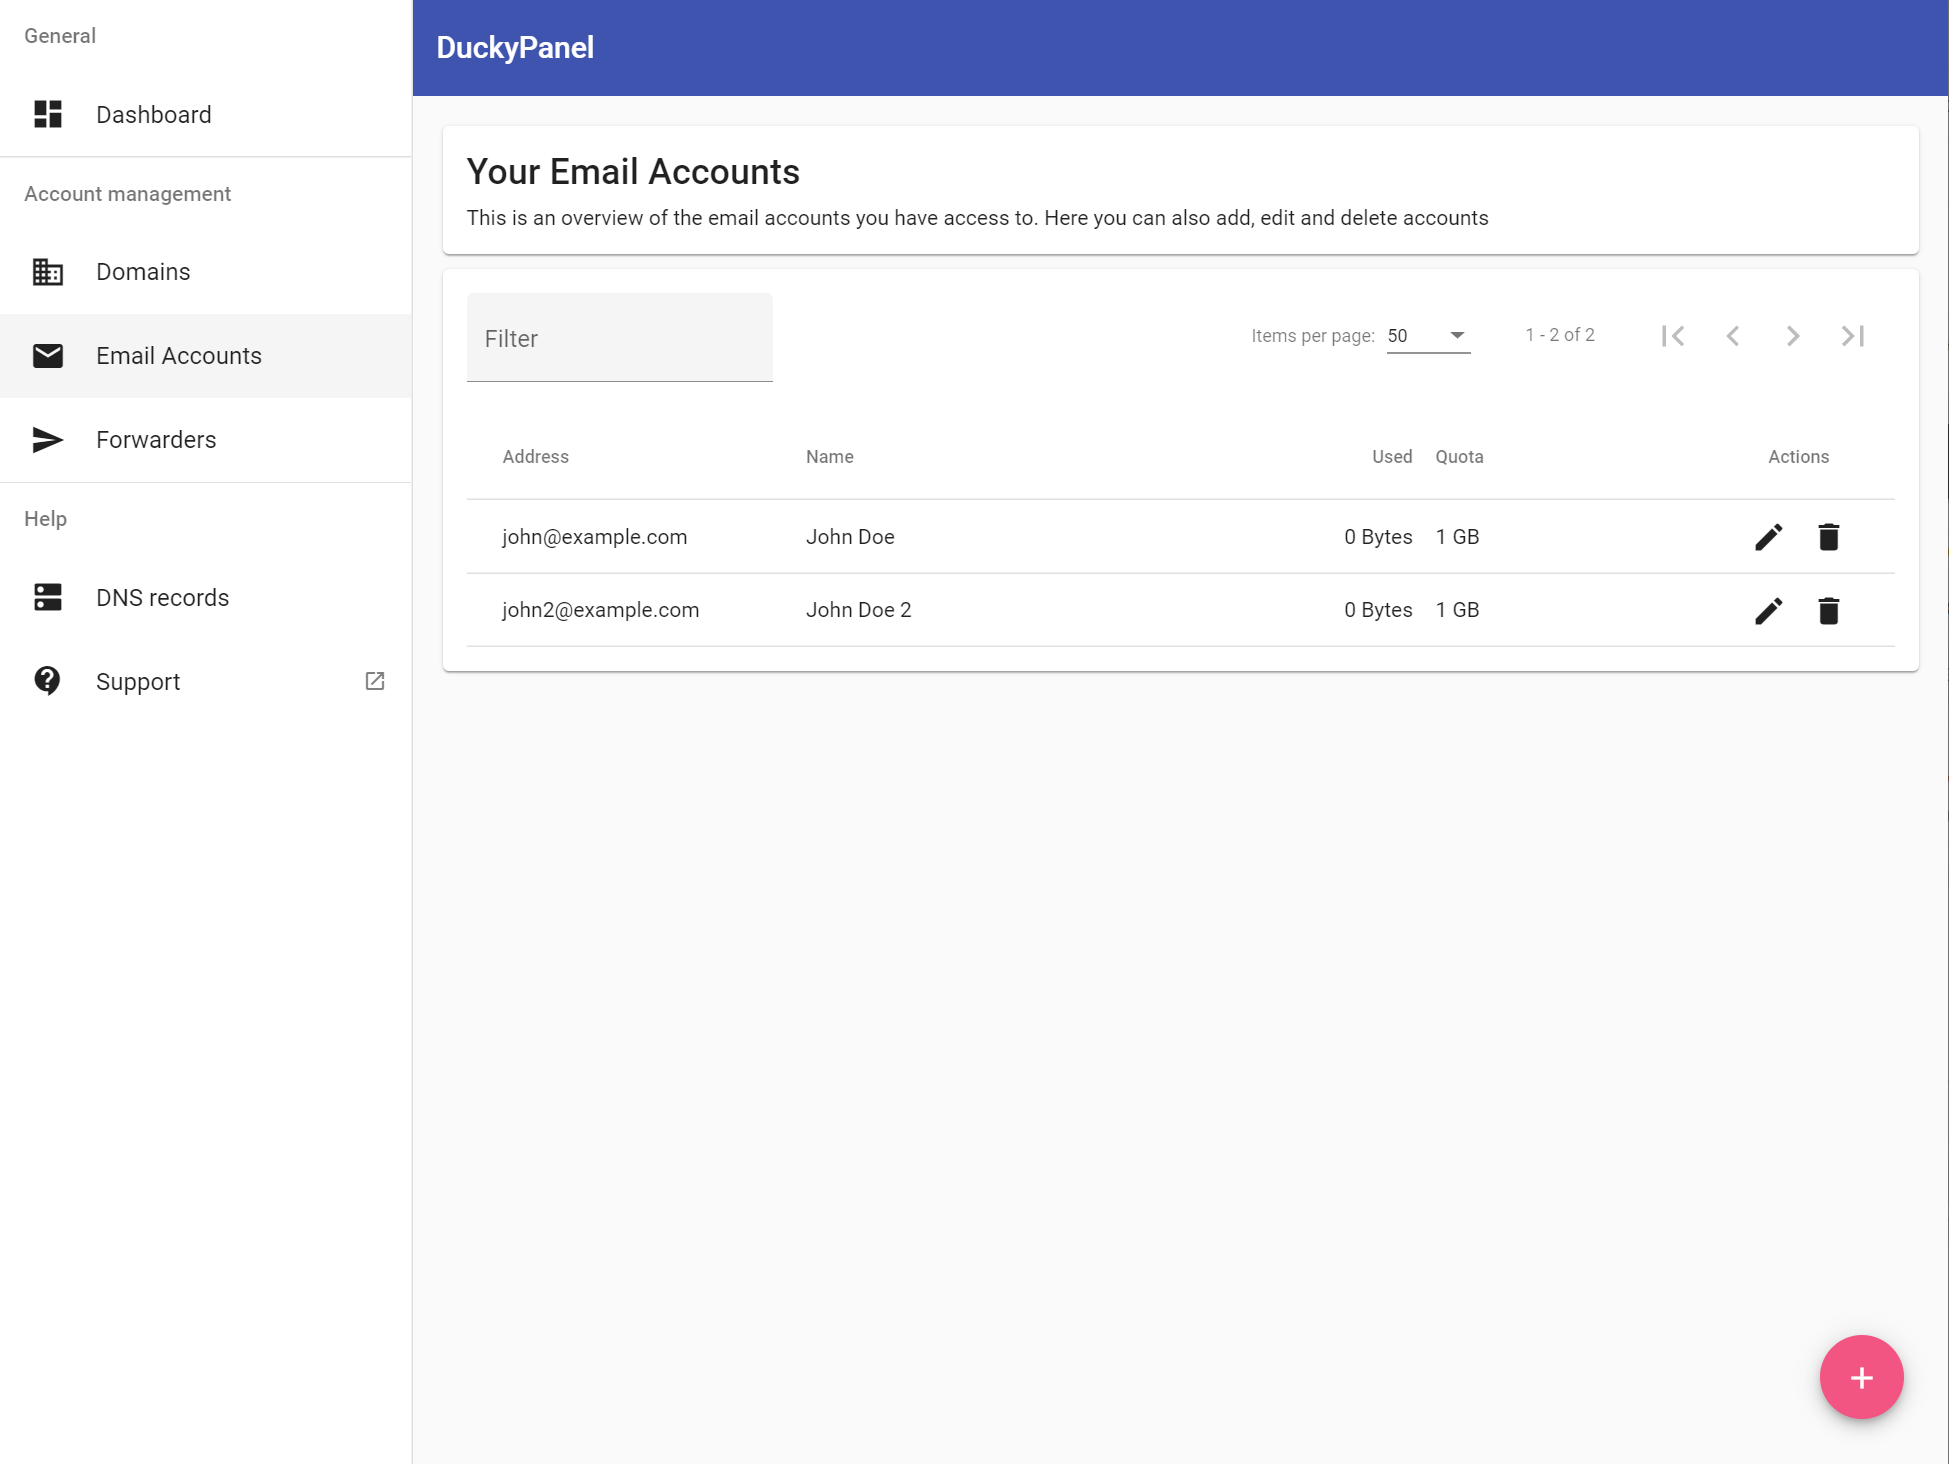
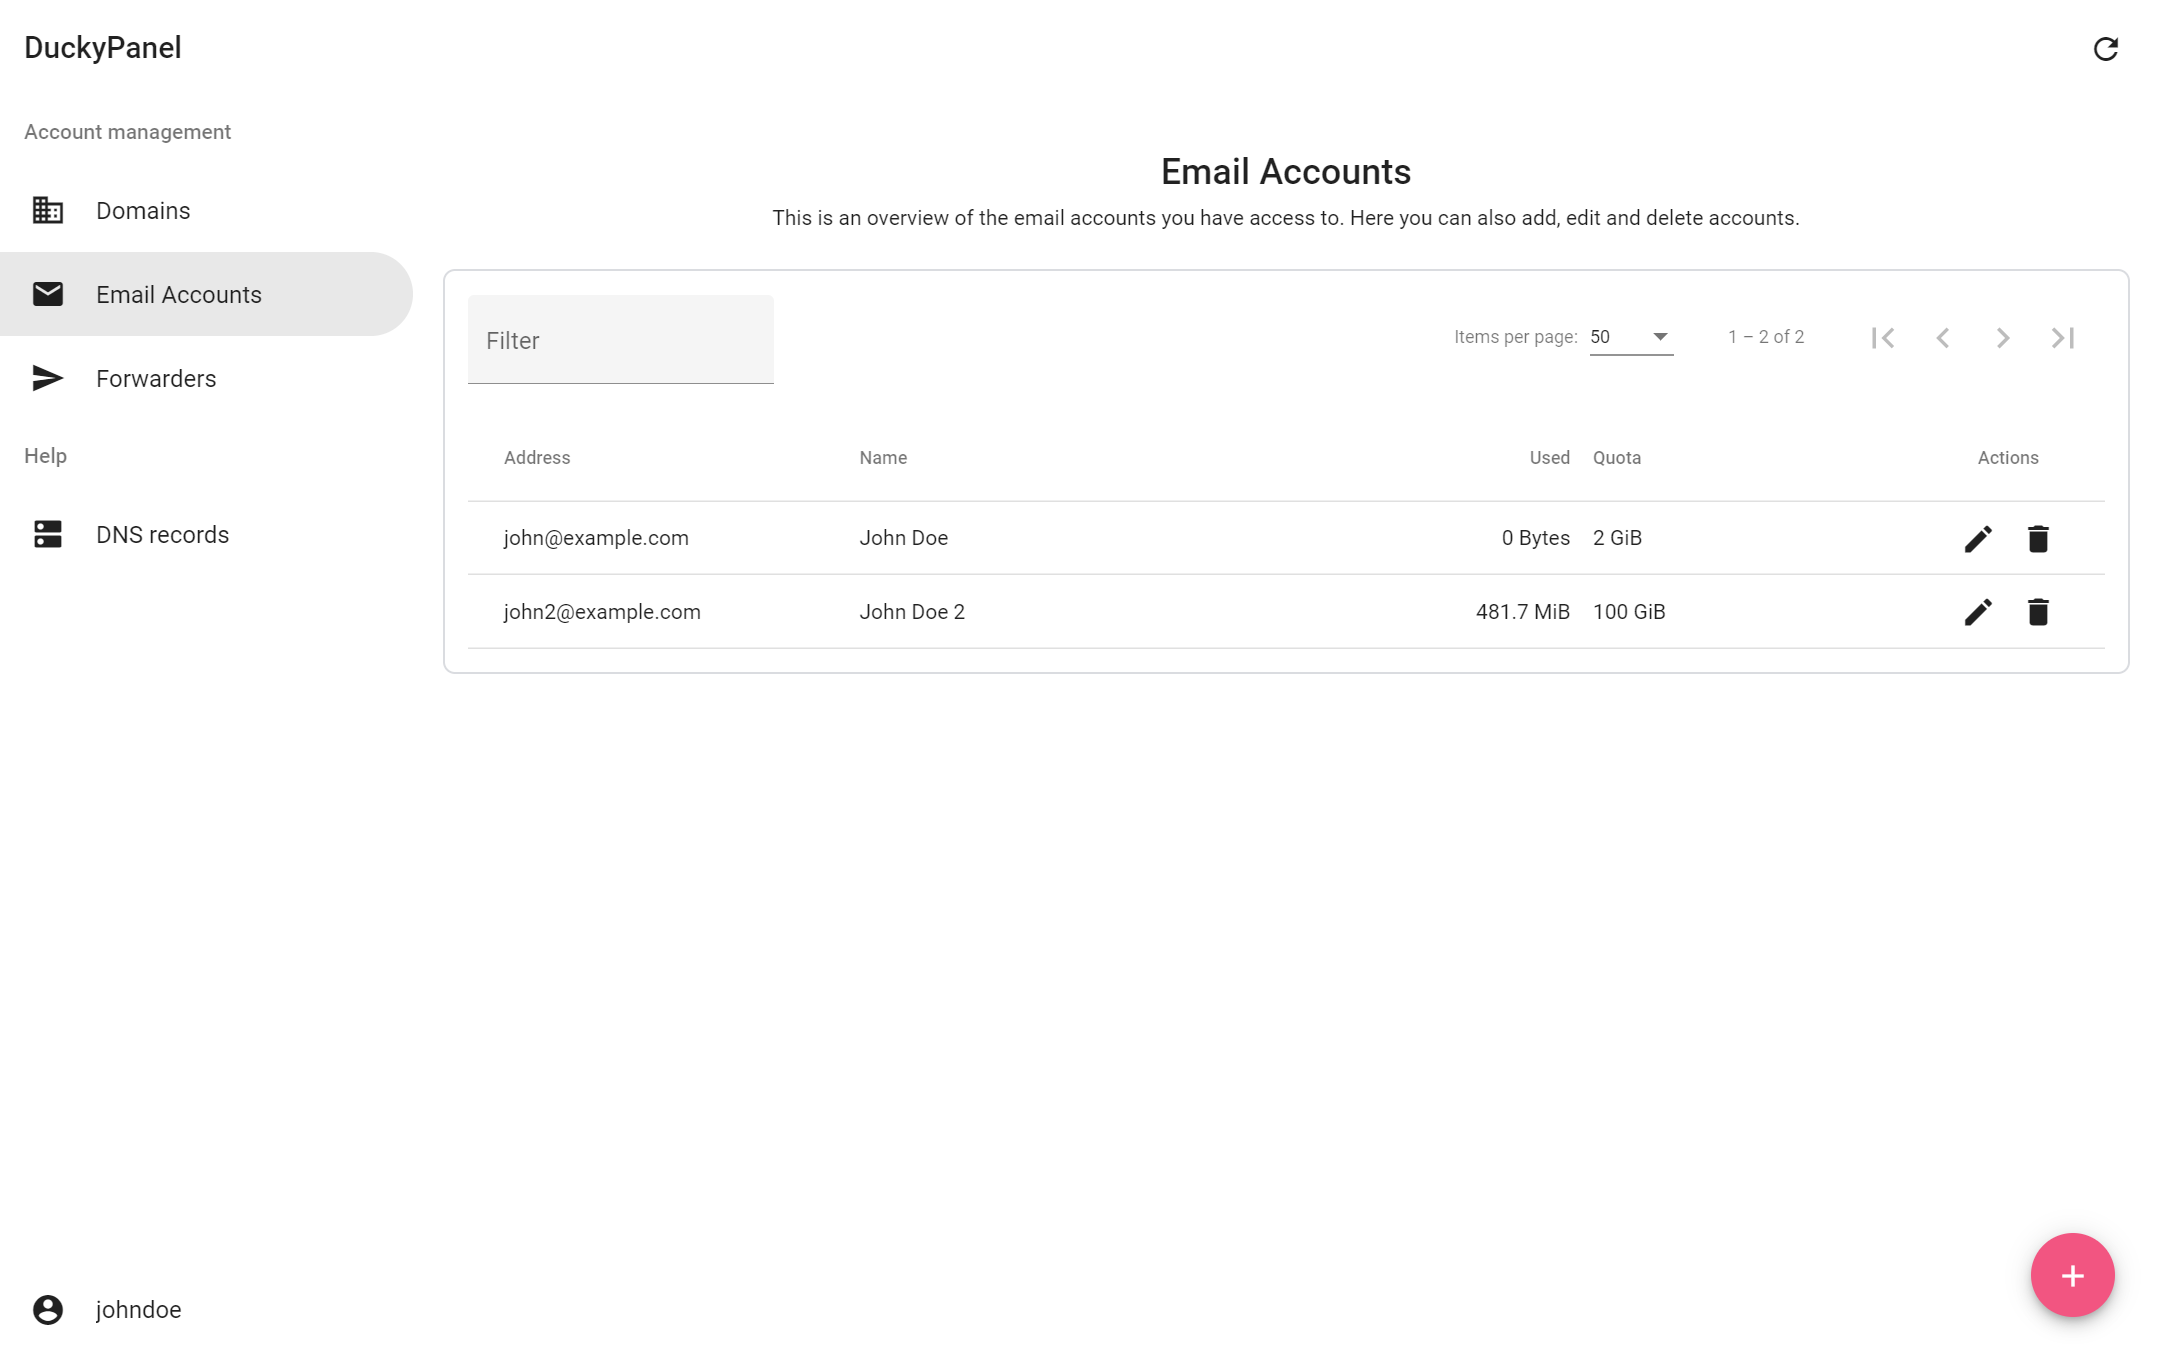
Clean restyle

diff --git a/src/app/app.component.html b/src/app/app.component.html
@@ -1,8 +1,37 @@
-<mat-sidenav-container class="sidenav-container">
+<mat-toolbar
+  [class.mat-elevation-z4]="
+    (elevateToolbar && (isHandset$ | async) && !drawer.opened) || (elevateToolbar && !(isHandset$ | async))
+  "
+  *ngIf="isFullscreen === false"
+  fxLayout="row"
+  fxLayoutAlign="space-between center"
+>
+  <button
+    type="button"
+    aria-label="Toggle sidenav"
+    mat-icon-button
+    (click)="drawer.toggle()"
+    *ngIf="isHandset$ | async"
+  >
+    <mat-icon aria-label="Side nav toggle icon">menu</mat-icon>
+  </button>
+  <span>DuckyPanel</span>
+  <button
+    *ngIf="showRefreshButton"
+    (click)="refreshCurrentView()"
+    matTooltip="Refresh"
+    matTooltipPosition="below"
+    matTooltipShowDelay="500"
+    mat-icon-button
+  >
+    <mat-icon>refresh</mat-icon>
+  </button>
+</mat-toolbar>
+<mat-sidenav-container>
   <mat-sidenav
     #drawer
-    class="sidenav"
     fixedInViewport
+    [fixedTopGap]="(isHandset$ | async) ? 56 : 64"
     [attr.role]="(isHandset$ | async) ? 'dialog' : 'navigation'"
     [mode]="(isHandset$ | async) ? 'over' : 'side'"
     [opened]="(isHandset$ | async) === false && isFullscreen === false"
@@ -10,9 +39,7 @@
     <!-- Create all navigation items -->
     <mat-nav-list>
       <div class="nav-top-part">
-        <ng-container *ngFor="let navCategory of navCategories; first as isFirst">
-          <!-- Only add divider if not the first category in the list -->
-          <mat-divider *ngIf="!isFirst"></mat-divider>
+        <ng-container *ngFor="let navCategory of navCategories">
           <h3 mat-subheader>{{ navCategory.title }}</h3>
 
           <ng-container *ngFor="let navItem of navCategory.items">
@@ -21,6 +48,7 @@
               *ngIf="navItem.routerLink; else href"
               (click)="closeDrawerConditional()"
               [routerLink]="navItem.routerLink"
+              routerLinkActive="active-list-item"
             >
               <mat-icon mat-list-icon>{{ navItem.icon }}</mat-icon>
               <h4 mat-line>{{ navItem.name }}</h4>
@@ -35,7 +63,7 @@
           </ng-container>
         </ng-container>
       </div>
-      <a class="profile-link" mat-list-item (click)="closeDrawerConditional()" routerLink="/profile">
+      <a class="profile-link" mat-list-item (click)="closeDrawerConditional()" routerLink="/profile" routerLinkActive="active-list-item">
         <mat-icon mat-list-icon>account_circle</mat-icon>
         <h4 mat-line>{{ profileService.user.username }}</h4>
       </a>
@@ -43,34 +71,6 @@
   </mat-sidenav>
 
   <mat-sidenav-content>
-    <mat-toolbar
-      *ngIf="isFullscreen === false"
-      fxLayout="row"
-      fxLayoutAlign="space-between center"
-      color="primary"
-      [ngStyle]="{ 'z-index': 100 }"
-    >
-      <button
-        type="button"
-        aria-label="Toggle sidenav"
-        mat-icon-button
-        (click)="drawer.toggle()"
-        *ngIf="isHandset$ | async"
-      >
-        <mat-icon aria-label="Side nav toggle icon">menu</mat-icon>
-      </button>
-      <span>{{ title }}</span>
-      <button
-        *ngIf="showRefreshButton"
-        (click)="refreshCurrentView()"
-        matTooltip="Refresh"
-        matTooltipPosition="below"
-        matTooltipShowDelay="500"
-        mat-icon-button
-      >
-        <mat-icon>refresh</mat-icon>
-      </button>
-    </mat-toolbar>
     <div [class.content]="isFullscreen === false">
       <router-outlet></router-outlet>
       <!-- This is where the router will add a component based on the url -->

diff --git a/src/app/app.component.ts b/src/app/app.component.ts
@@ -1,5 +1,5 @@
 import { BreakpointObserver, Breakpoints } from '@angular/cdk/layout'
-import { Component, OnInit, ViewChild } from '@angular/core'
+import { Component, HostListener, OnInit, ViewChild } from '@angular/core'
 import { MatSidenav } from '@angular/material'
 import { ActivatedRouteSnapshot, Router, RoutesRecognized } from '@angular/router'
 import { Observable } from 'rxjs'
@@ -68,6 +68,15 @@ export class AppComponent implements OnInit {
   public isFullscreen: boolean
   public showRefreshButton = false
   public currentComponent: typeof ActivatedRouteSnapshot.prototype.component
+  public elevateToolbar = false
+  public isHandset$: Observable<boolean> = this.breakpointObserver
+    .observe(Breakpoints.Handset)
+    .pipe(map((result): boolean => result.matches))
+
+  @HostListener('window:scroll', ['$event'])
+  setToolbarElevation(): void {
+    this.elevateToolbar = window.pageYOffset !== 0
+  }
 
   public ngOnInit(): void {
     this.profileService.getUserInfo()
@@ -114,10 +123,6 @@ export class AppComponent implements OnInit {
       default:
     }
   }
-
-  public isHandset$: Observable<boolean> = this.breakpointObserver
-    .observe(Breakpoints.Handset)
-    .pipe(map((result): boolean => result.matches))
 
   public closeDrawerConditional(): void {
     this.isHandset$.subscribe((isHandset$): void => {

diff --git a/src/app/app.component.scss b/src/app/app.component.scss
@@ -1,19 +1,34 @@
-.sidenav-container {
-  height: 100%;
-}
-
-.sidenav {
+mat-sidenav {
   width: 275px;
+  border: none;
 }
 
-.sidenav .mat-toolbar {
-  background: inherit;
-}
-
-.mat-toolbar.mat-primary {
+mat-toolbar {
+  background-color: #fff;
   position: sticky;
   top: 0;
-  z-index: 1;
+  z-index: 5;
+  transition: box-shadow 0.4s;
+}
+
+.mat-drawer-container {
+  background-color: #fff;
+}
+
+.mat-list-item, :host ::ng-deep .mat-list-item .mat-list-item-ripple {
+  border-radius: 0 28px 28px 0;
+}
+
+.profile-link, :host ::ng-deep .profile-link .mat-list-item-ripple {
+  border-radius: 0 35px 0 0;
+}
+
+.active-list-item, .active-list-item:hover, .active-list-item:focus {
+  background-color: rgba(0, 0, 0, 0.089);
+}
+
+:host ::ng-deep .mat-drawer-backdrop {
+  position: fixed;
 }
 
 .content {
@@ -35,7 +50,6 @@
 
 .profile-link.mat-list-item.mat-list-item-with-avatar {
   height: 70px;
-  background-color: white;
   position: absolute;
   bottom: 0;
 }

diff --git a/src/app/pages/domains/domains.component.html b/src/app/pages/domains/domains.component.html
@@ -1,13 +1,11 @@
 <!-- Switch to row or column mode depending on mobile or not -->
-<div [fxLayout]="(isHandset$ | async) ? 'column' : 'row'" fxLayoutGap="10px">
-  <mat-card fxFlex="30%" [fxFlexAlign]="(isHandset$ | async) ? null : 'start'">
-    <mat-card-title>Your domains</mat-card-title>
+<div fxLayout="column" fxLayoutGap="10px">
+  <mat-card class="explanation" fxFlex="30%" [fxFlexAlign]="(isHandset$ | async) ? null : 'start'">
+    <mat-card-title>Domains</mat-card-title>
     <mat-card-content>
       <p>
         These are the domains you have added to your account. You have access to any accounts and forwarders associated
         to these domains. Here you can add and delete domains, and manage the DKIM keys for them as well.
-      </p>
-      <p>
         Do note that when you delete a domain, the accounts will be deleted with it.
       </p>
     </mat-card-content>

diff --git a/src/app/pages/dns/dns.component.html b/src/app/pages/dns/dns.component.html
@@ -1,9 +1,9 @@
 <!-- Switch to row or column mode depending on mobile or not -->
-<div [fxLayout]="(isHandset$ | async) ? 'column' : 'row'" fxLayoutGap="10px">
+<div fxLayout="column" fxLayoutGap="10px">
   <ng-template #loading>
     <mat-spinner diameter="50"></mat-spinner>
   </ng-template>
-  <mat-card fxFlex="30%" [fxFlexAlign]="(isHandset$ | async) ? null : 'start'">
+  <mat-card class="explanation" fxFlex="30%" [fxFlexAlign]="(isHandset$ | async) ? null : 'start'">
     <mat-card-title>DNS records check</mat-card-title>
     <mat-card-content
       >Select a domain to view the needed records for it. A check will also be performed to see if you've set the

diff --git a/src/app/pages/forwarders/forwarders.component.html b/src/app/pages/forwarders/forwarders.component.html
@@ -1,7 +1,7 @@
 <!-- Switch to row or column mode depending on mobile or not -->
-<div [fxLayout]="(isHandset$ | async) ? 'column' : 'row'" fxLayoutGap="10px">
-  <mat-card fxFlex="30%" [fxFlexAlign]="(isHandset$ | async) ? null : 'start'">
-    <mat-card-title>Your forwarders</mat-card-title>
+<div fxLayout="column" fxLayoutGap="10px">
+  <mat-card class="explanation" fxFlex="30%" [fxFlexAlign]="(isHandset$ | async) ? null : 'start'">
+    <mat-card-title>Forwarders</mat-card-title>
     <mat-card-content
       >Here you can manage your forwarders. You can forward to any email address, smtp server, or HTTP server (POST
       request).</mat-card-content

diff --git a/src/app/pages/accounts/accounts.component.html b/src/app/pages/accounts/accounts.component.html
@@ -1,8 +1,8 @@
 <div fxLayout="column" fxLayoutGap="10px">
-  <mat-card>
-    <mat-card-title>Your Email Accounts</mat-card-title>
+  <mat-card class="explanation">
+    <mat-card-title>Email Accounts</mat-card-title>
     <mat-card-content
-      >This is an overview of the email accounts you have access to. Here you can also add, edit and delete accounts
+      >This is an overview of the email accounts you have access to. Here you can also add, edit and delete accounts.
     </mat-card-content>
   </mat-card>
   <mat-card class="account-table-card">

diff --git a/src/app/pages/login/login.component.html b/src/app/pages/login/login.component.html
@@ -1,5 +1,5 @@
 <div fxLayout="row" fxLayoutAlign="center center" class="layout-center" [class.is-handset]="isHandset$ | async">
-  <mat-card [class.is-handset]="isHandset$ | async">
+  <mat-card class="mat-elevation-z4" [class.is-handset]="isHandset$ | async">
     <mat-card-title>Login</mat-card-title>
     <mat-card-content>
       <form [formGroup]="loginForm" (ngSubmit)="login()">

diff --git a/src/styles.scss b/src/styles.scss
@@ -32,3 +32,22 @@ eco-fab-speed-dial {
     }
   }
 }
+
+mat-card {
+  &.mat-card {
+    border-radius: 8px;
+
+    &:not([class*=mat-elevation-z]) {
+      border: 1px solid #dadce0;
+      box-shadow: none;
+    }
+    
+    &.explanation {
+      border: none;
+      text-align: center;
+      margin: auto;
+      max-width: 960px;
+    }
+  }
+  
+}

diff --git a/src/app/pages/dns/dns.component.scss b/src/app/pages/dns/dns.component.scss
@@ -1,5 +1,7 @@
 .domain-field {
-  width: 100%;
+  margin: auto;
+  display: block;
+  max-width: 250px;
 }
 
 .dns-card-title {

diff --git a/README.md b/README.md
@@ -7,14 +7,14 @@ Duckypanel is a domain admin level control panel for the modern [WildDuck email 
 _Things currently working in DuckyPanel and DuckyAPI._
 * Authentication
 * API keys allow you to easily call DuckyAPI
-* Packages that allow you to set user quotas, currently only for show. Noting happens when going over quota.
+* Packages that allow you to set user quotas, currently only for show. Nothing happens when going over quota.
 * Domain management, including domain aliases
 * Deletes aliased domains, accounts, forwarders and DKIM when deleting a domain
 * Manage DKIM for the domains
-* Domains can not be added to multiple accounts
 * Email account management
 * Forwarder management
 * Only allows seeing/editing of accounts/forwarders on a domain if that domain is added to the account
+* Domains can not be added to multiple accounts
 * Get expected DNS records for a domain, and check the currently published records
 * Sorting and filtering
 
@@ -27,11 +27,12 @@ More to come!
 <summary>Click here for more screenshots</summary>
 
 ![Edit account screenshot](docs/images/screenshot-edit-account.png)
-![Forwarders overview screenshot](docs/images/screenshot-forwarders.png)
-![Edit forwarder screenshot](docs/images/screenshot-edit-forwarder.png)
 ![Domains overview screenshot](docs/images/screenshot-domains.png)
 ![Edit DKIM screenshot](docs/images/screenshot-dkim.png)
+![Forwarders overview screenshot](docs/images/screenshot-forwarders.png)
+![Edit forwarder screenshot](docs/images/screenshot-edit-forwarder.png)
 ![Check domain DNS screenshot](docs/images/screenshot-dnscheck.png)
+![Profile screenshot](docs/images/screenshot-profile.png)
 ![Login screenshot](docs/images/screenshot-login.png)
 ![Mobile screenshot](docs/images/screenshot-mobile.png)
 
